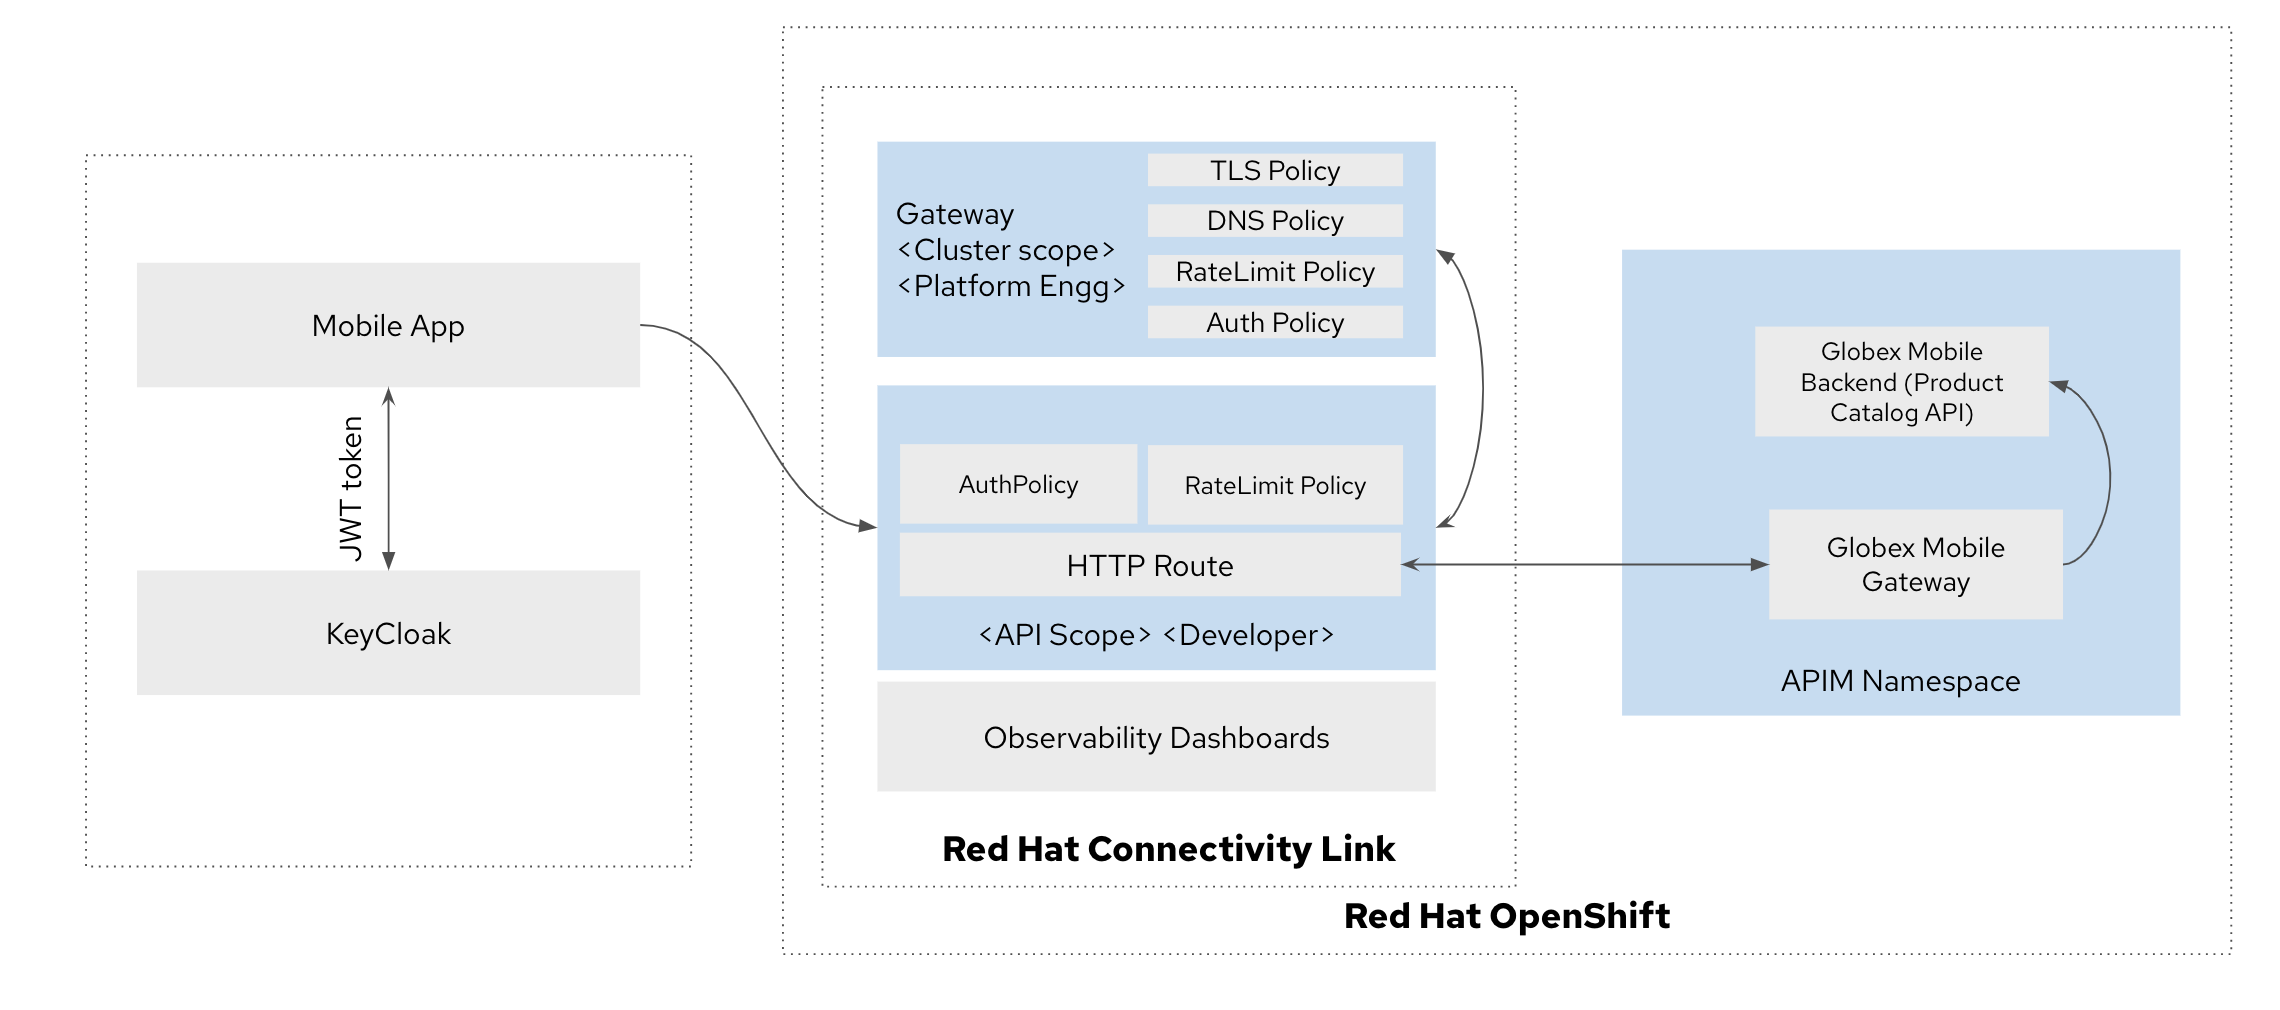
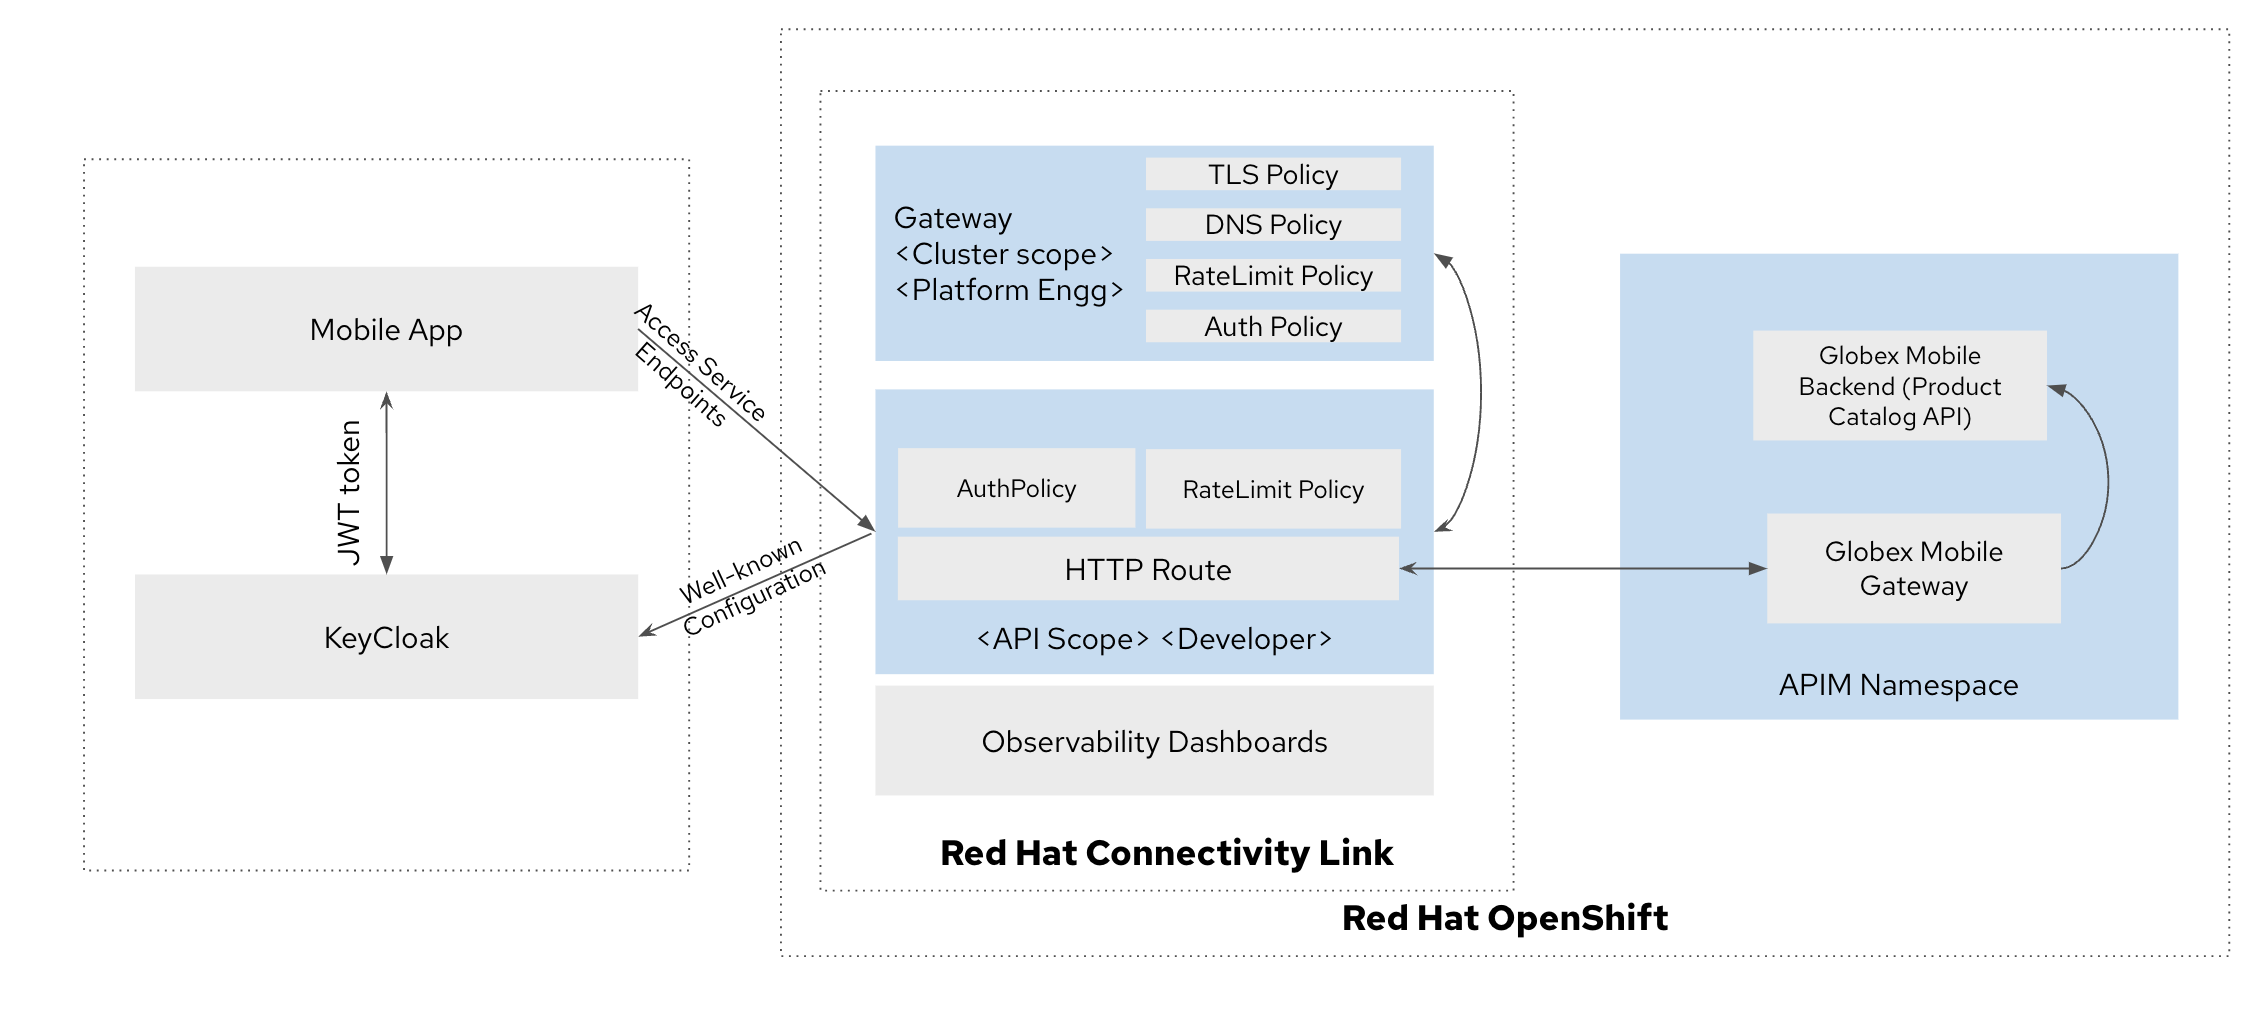
[CI] Publish Documentation for cbd3bcbde4c10fba68254d55354652fc41e238ec - cbd3bcbde4c10fba68254d55354652fc41e238ec 🚀

diff --git a/solution-pattern/02-architecture.html b/solution-pattern/02-architecture.html
@@ -335,7 +335,8 @@ The Platform Engineer has to setup a Gateway which will allow for secure connect
 <div class="olist loweralpha">
 <ol class="loweralpha" type="a">
 <li>
-<p><a href="https://docs.kuadrant.io/0.8.0/dns-operator/docs/managedzone/" target="_blank" rel="noopener"><strong>ManagedZone</strong></a>:  is a reference to a <a href="https://en.wikipedia.org/wiki/DNS_zone" target="_blank" rel="noopener">DNS zone</a>.  This defined the domain/subdomain that can be used as a host by any gateways. E.g.  <code>managed.globex.com</code>.</p>
+<p>A Managed Zone needs to be setup within the DNS provider. E.g.  <code>managed.globex.com</code>.<br>
+Refer to the <a href="https://developers.redhat.com/articles/2024/06/12/getting-started-red-hat-connectivity-link-openshift" target="_blank" rel="noopener">Getting started page</a>  to learn how to setup a Managed Zone.</p>
 </li>
 <li>
 <p><strong>TLS issuer</strong> (a.k.a ClusterIssuer): Sets up a Certificate Issuer to create TLS certificates that are needed to secure communication. In this case, Globex uses <a href="https://letsencrypt.org/" target="_blank" rel="noopener">Let&#8217;s Encrypt</a>. This certificate is stored as a secret to be referenced by the Gateways.</p>

diff --git a/solution-pattern/index.html b/solution-pattern/index.html
@@ -289,6 +289,11 @@
 <div class="sect1">
 <h2 id="_the_story_behind_this_solution_pattern"><a class="anchor" href="#_the_story_behind_this_solution_pattern"></a><a class="link" href="#_the_story_behind_this_solution_pattern">2. The story behind this solution pattern</a></h2>
 <div class="sectionbody">
+<div class="imageblock">
+<div class="content">
+<img src="_images/secure-app-connecticity.png" alt="secure app connecticity">
+</div>
+</div>
 <div class="paragraph">
 <p>Globex, a fictitious retail company, would like their product catalog to be available for perusal in a secure fashion. This new application will need to access the Product Catalog API in a secure way using OpenID Connect (OIDC) as the authentication layer.</p>
 </div>
